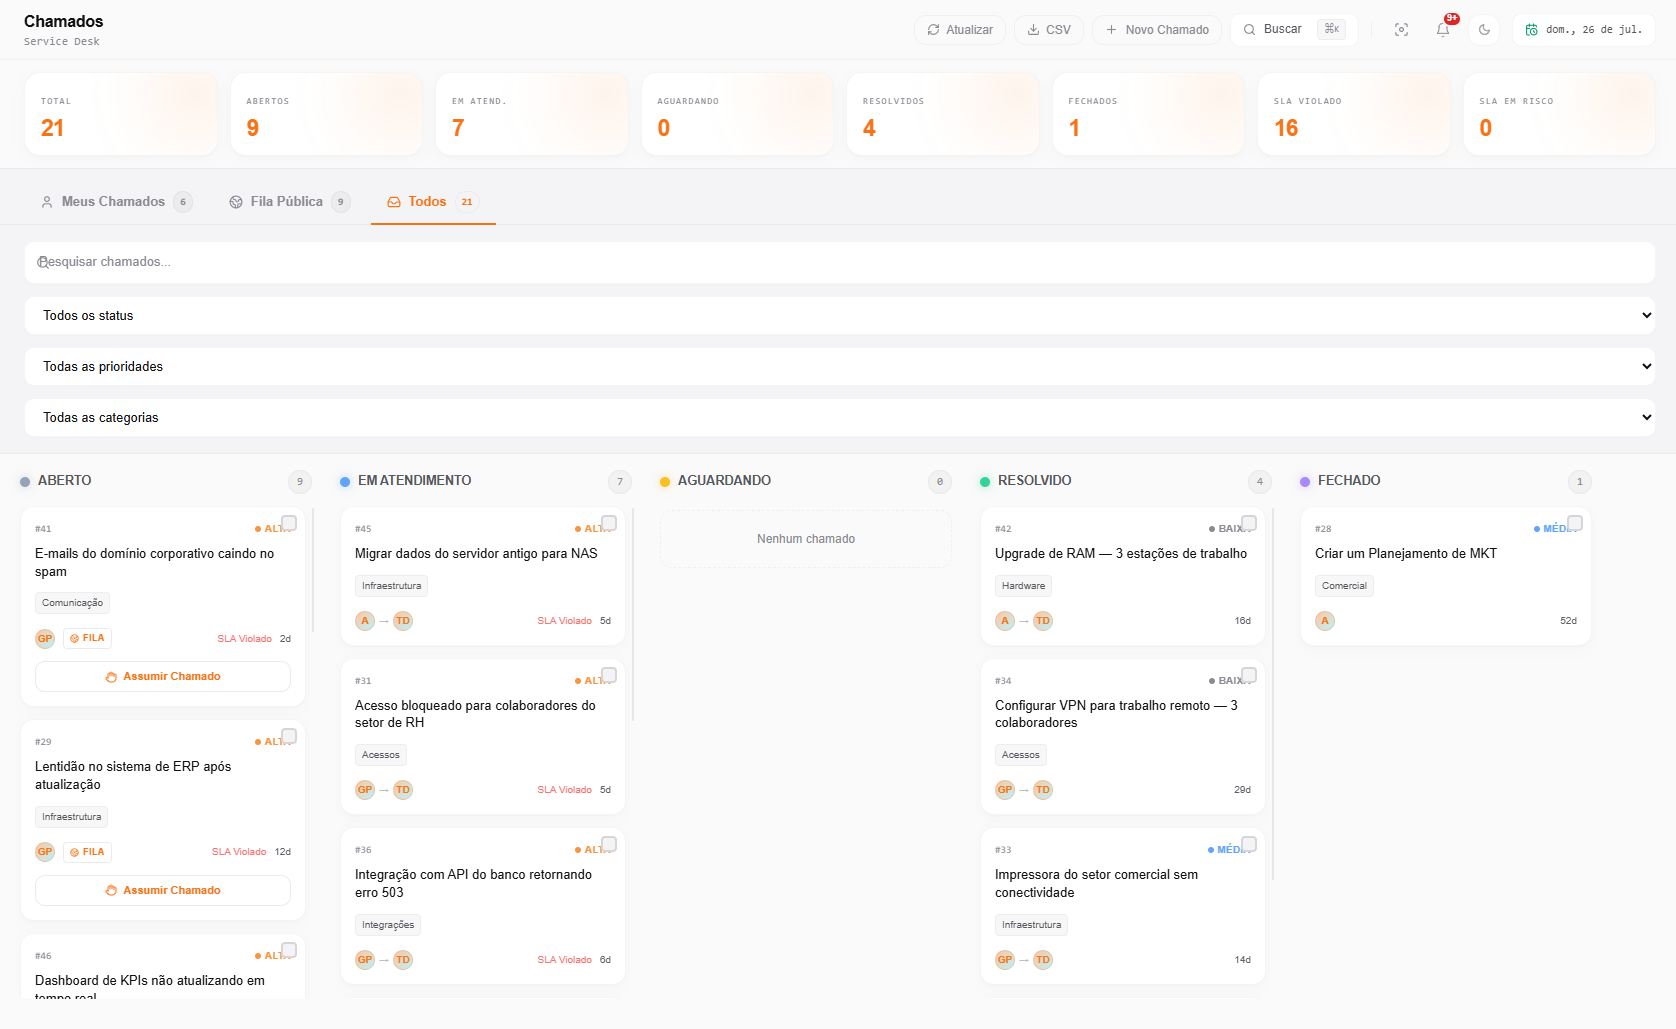
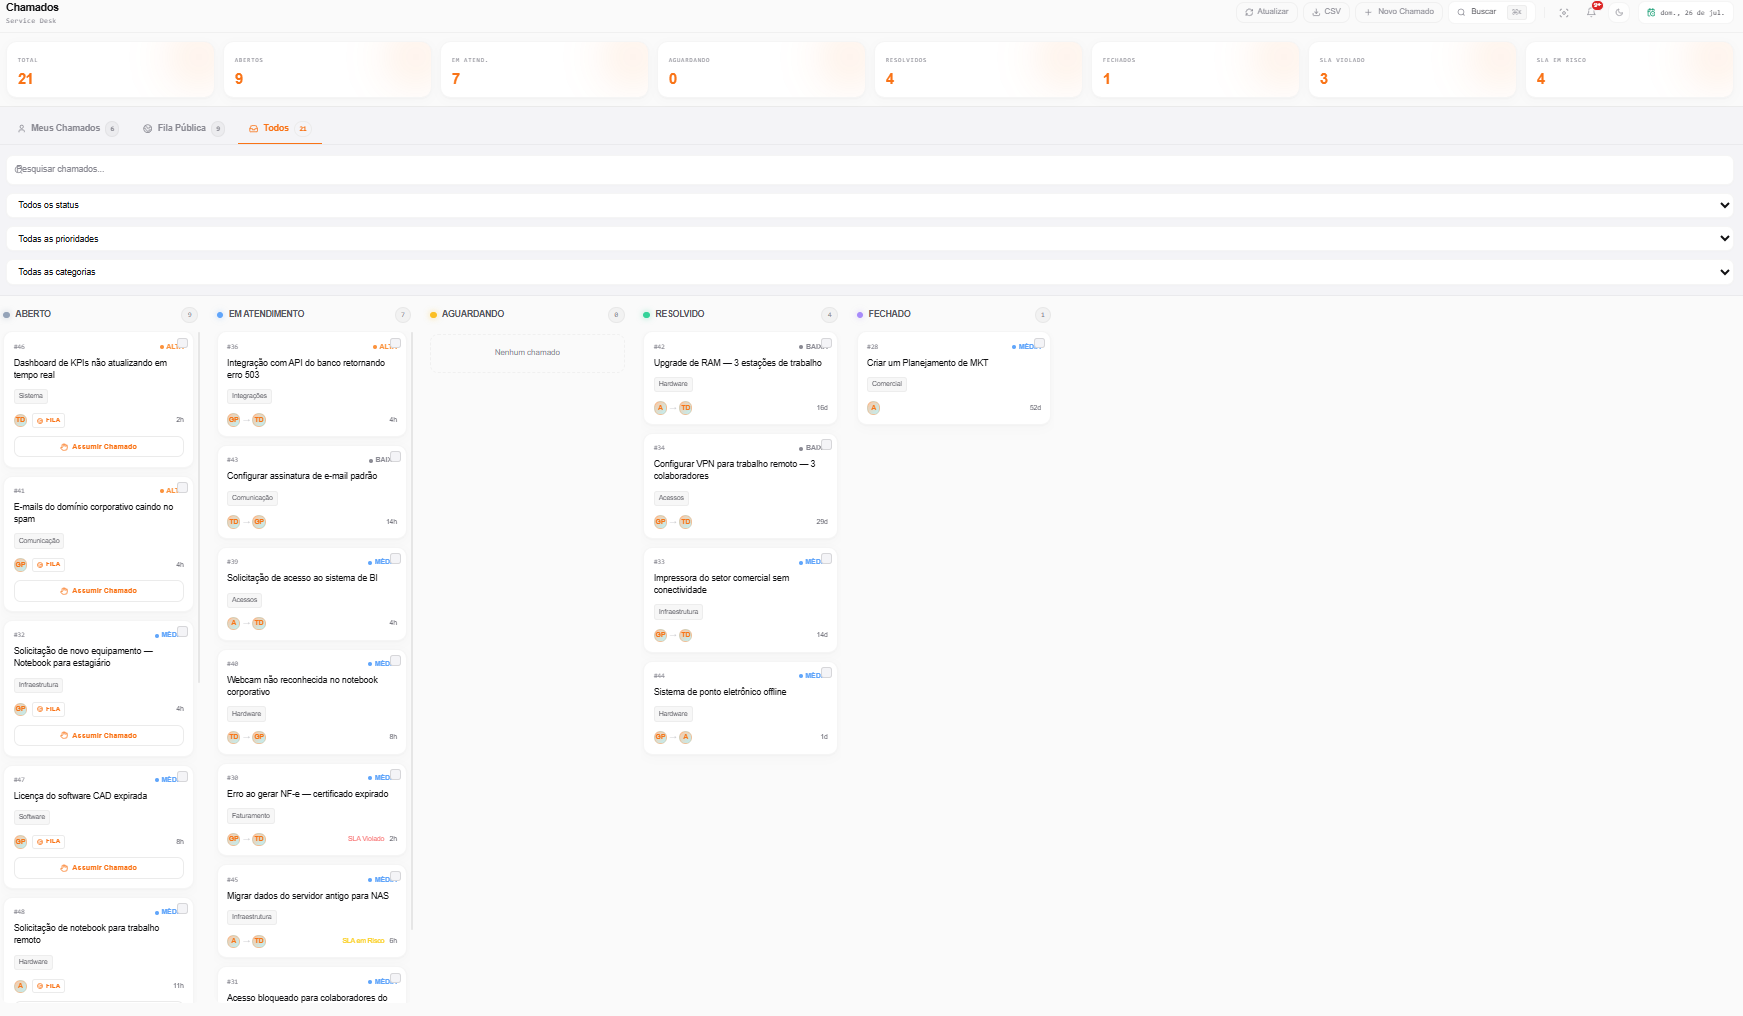
feat(website): novo produto Orkiestri Space + capturas de Fleet, Assets e Observe
- Orkiestri Space (Agenda & Colaboração): 12º produto, com página própria,
  recursos, IA e integrações. Usa a captura da Agenda.
- Vinculadas as capturas novas: Fleet→frota, Assets→ativos,
  Observe→monitoramento (módulo destravado nesta rodada).
- Atualizadas as capturas refeitas: chamados (SLA agora 3 violados, era 16)
  e orçamento (período Jan–Jul: desvio -2,3%, era -52%) com as novas dimensões.

diff --git a/website/src/config/products.ts b/website/src/config/products.ts
@@ -10,6 +10,7 @@ import {
   ShoppingCart,
   Activity,
   ShieldCheck,
+  CalendarDays,
 } from "lucide-react";
 import type { Product } from "@/types";
 
@@ -24,8 +25,8 @@ export const products: Product[] = [
     screenshot: {
       src: "/screenshots/chamados.png",
       alt: "Orkiestri Desk — quadro de chamados por status, com indicadores de SLA e fila pública",
-      width: 1676,
-      height: 1029,
+      width: 1743,
+      height: 1016,
     },
     name: "Orkiestri Desk",
     category: "Service Management",
@@ -81,7 +82,42 @@ export const products: Product[] = [
     integrations: ["GitHub", "Azure DevOps", "Jira", "Microsoft Project"],
   },
   {
+    slug: "one-space",
+    screenshot: {
+      src: "/screenshots/agenda.png",
+      alt: "Orkiestri Space — agenda corporativa com eventos do mês, próximos compromissos e disponibilidade do time",
+      width: 1702,
+      height: 1031,
+    },
+    name: "Orkiestri Space",
+    category: "Agenda & Colaboração",
+    tagline: "Organize a agenda e os compromissos do time.",
+    description:
+      "Agenda corporativa conectada à operação: eventos, reuniões, treinamentos e disponibilidade das equipes no mesmo ambiente dos projetos e chamados.",
+    icon: CalendarDays,
+    features: [
+      "Agenda compartilhada",
+      "Visões de mês, semana e dia",
+      "Disponibilidade do time",
+      "Convites e participantes",
+      "Lembretes e notificações",
+      "Compromissos vinculados a projetos",
+    ],
+    ai: [
+      "Sugestão de melhor horário",
+      "Resumo de reuniões",
+      "Detecção de conflitos de agenda",
+    ],
+    integrations: ["Google Agenda", "Microsoft 365", "Google Meet", "Teams"],
+  },
+  {
     slug: "one-fleet",
+    screenshot: {
+      src: "/screenshots/frota.png",
+      alt: "Orkiestri Fleet — frota com placa, modelo, categoria, responsável, hodômetro e status de cada veículo",
+      width: 920,
+      height: 608,
+    },
     name: "Orkiestri Fleet",
     category: "Fleet Management",
     tagline: "Gerencie veículos, reservas, abastecimentos e manutenção.",
@@ -105,6 +141,12 @@ export const products: Product[] = [
   },
   {
     slug: "one-assets",
+    screenshot: {
+      src: "/screenshots/ativos.png",
+      alt: "Orkiestri Assets — inventário de equipamentos por categoria, com responsável e status",
+      width: 1742,
+      height: 599,
+    },
     name: "Orkiestri Assets",
     category: "Asset Management",
     tagline: "Controle ativos, patrimônio e inventário.",
@@ -154,8 +196,8 @@ export const products: Product[] = [
     screenshot: {
       src: "/screenshots/orcamento-dashboard.png",
       alt: "Orkiestri Budget — dashboard orçamentário com CAPEX, OPEX, evolução mensal e distribuição por centro de custo",
-      width: 1688,
-      height: 970,
+      width: 1755,
+      height: 999,
     },
     name: "Orkiestri Budget",
     category: "Budget Planning",
@@ -236,6 +278,12 @@ export const products: Product[] = [
   },
   {
     slug: "one-observe",
+    screenshot: {
+      src: "/screenshots/monitoramento.png",
+      alt: "Orkiestri Observe — monitoramento operacional em tempo real com disponibilidade e estado de cada ativo",
+      width: 1058,
+      height: 623,
+    },
     name: "Orkiestri Observe",
     category: "Observability",
     tagline: "Monitore indicadores operacionais em tempo real.",

diff --git a/website/src/app/products/orkiestri-one/page.tsx b/website/src/app/products/orkiestri-one/page.tsx
@@ -82,8 +82,8 @@ export default function OrkiestriOnePage() {
           <Screenshot
             src="/screenshots/orcamento-dashboard.png"
             alt="Orkiestri One — dashboard com indicadores consolidados, evolução mensal e distribuição por centro de custo"
-            width={1688}
-            height={970}
+            width={1755}
+            height={999}
             priority
           />
         </Reveal>
